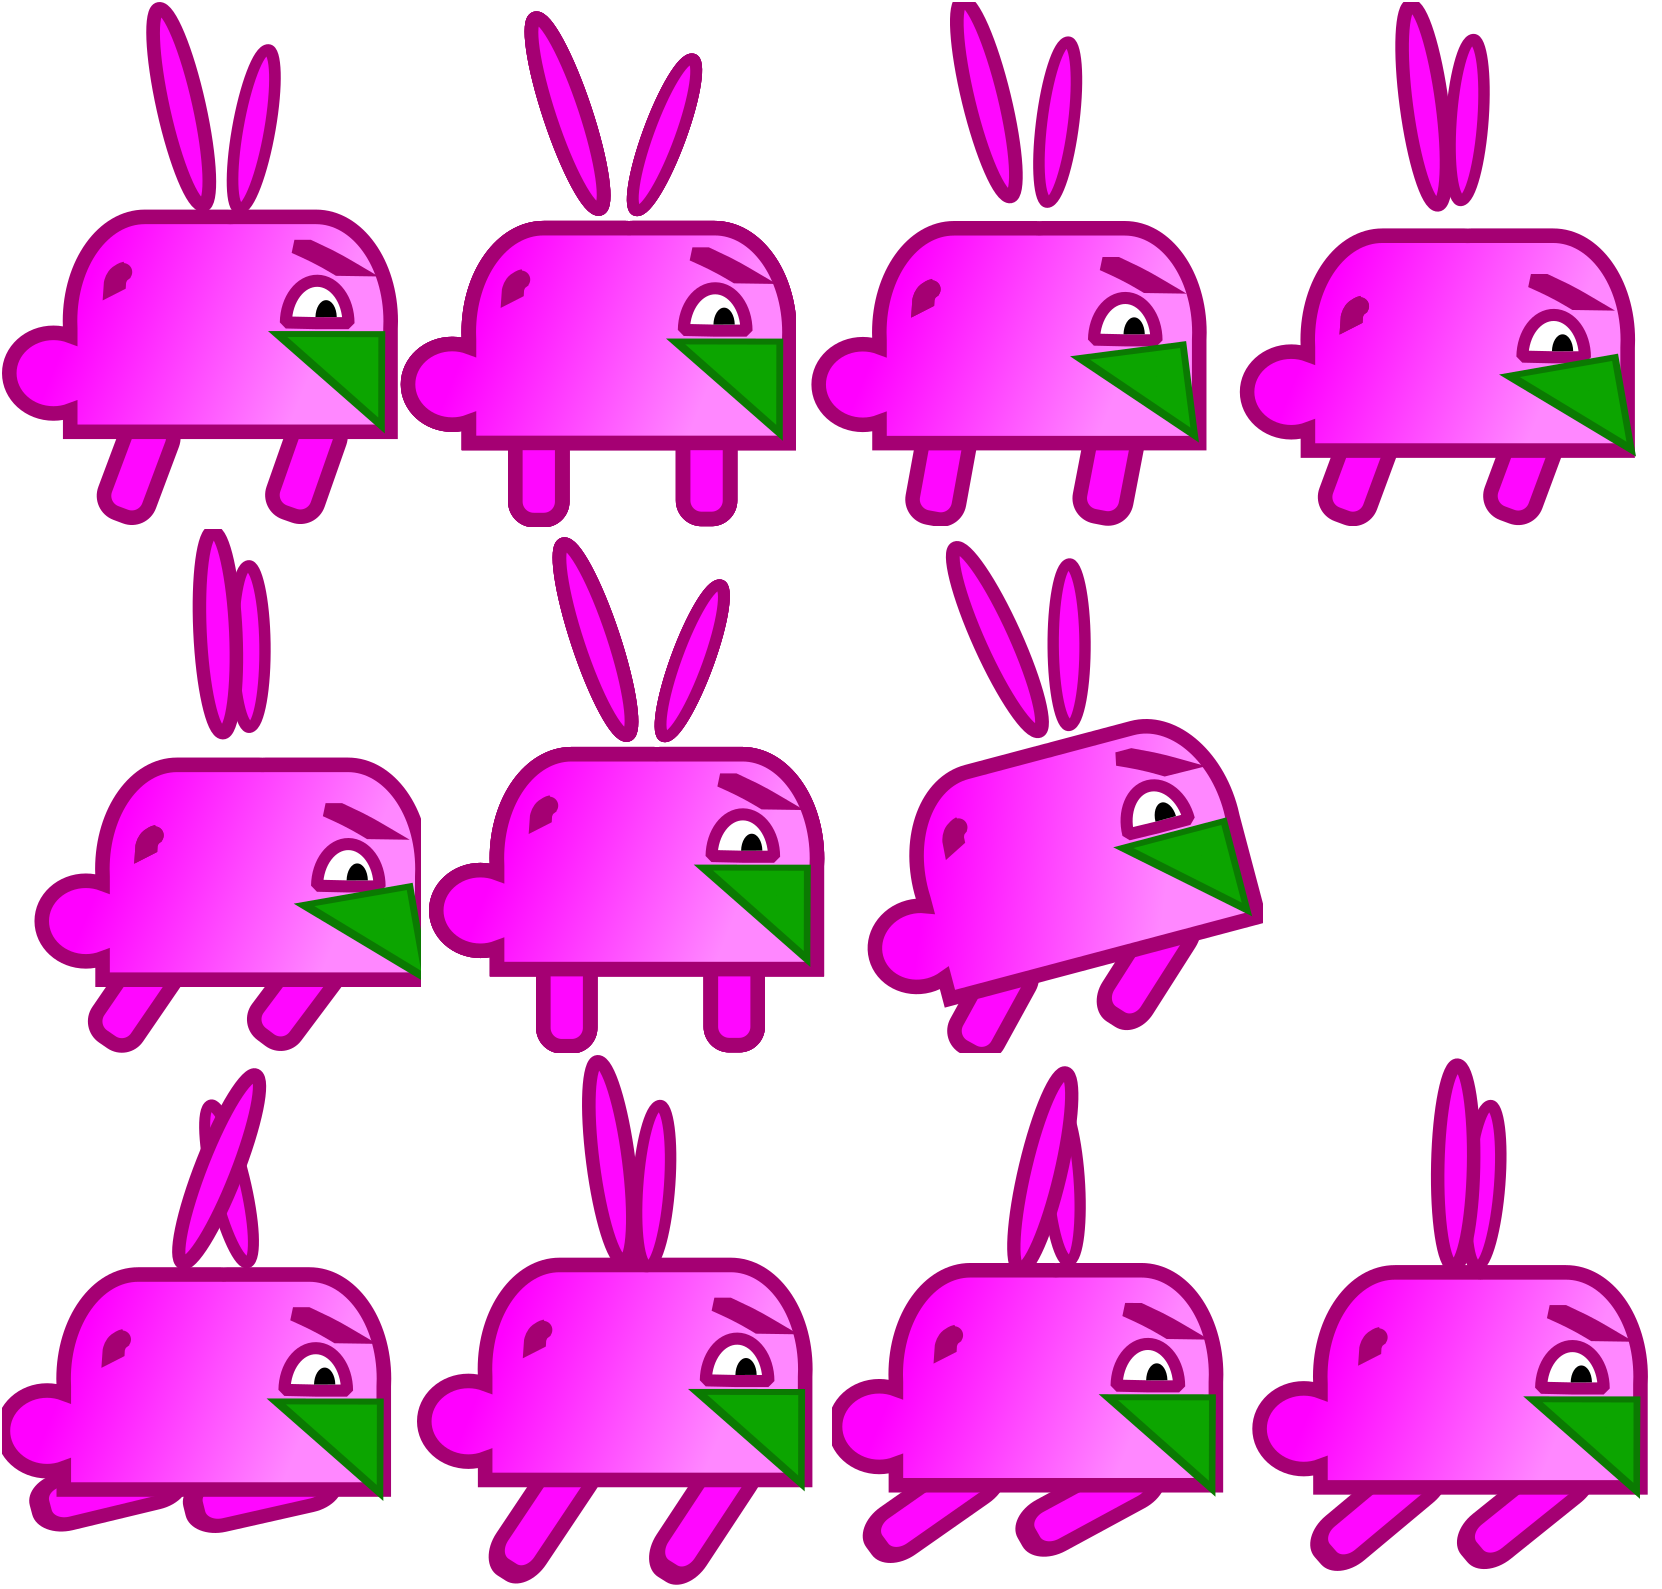
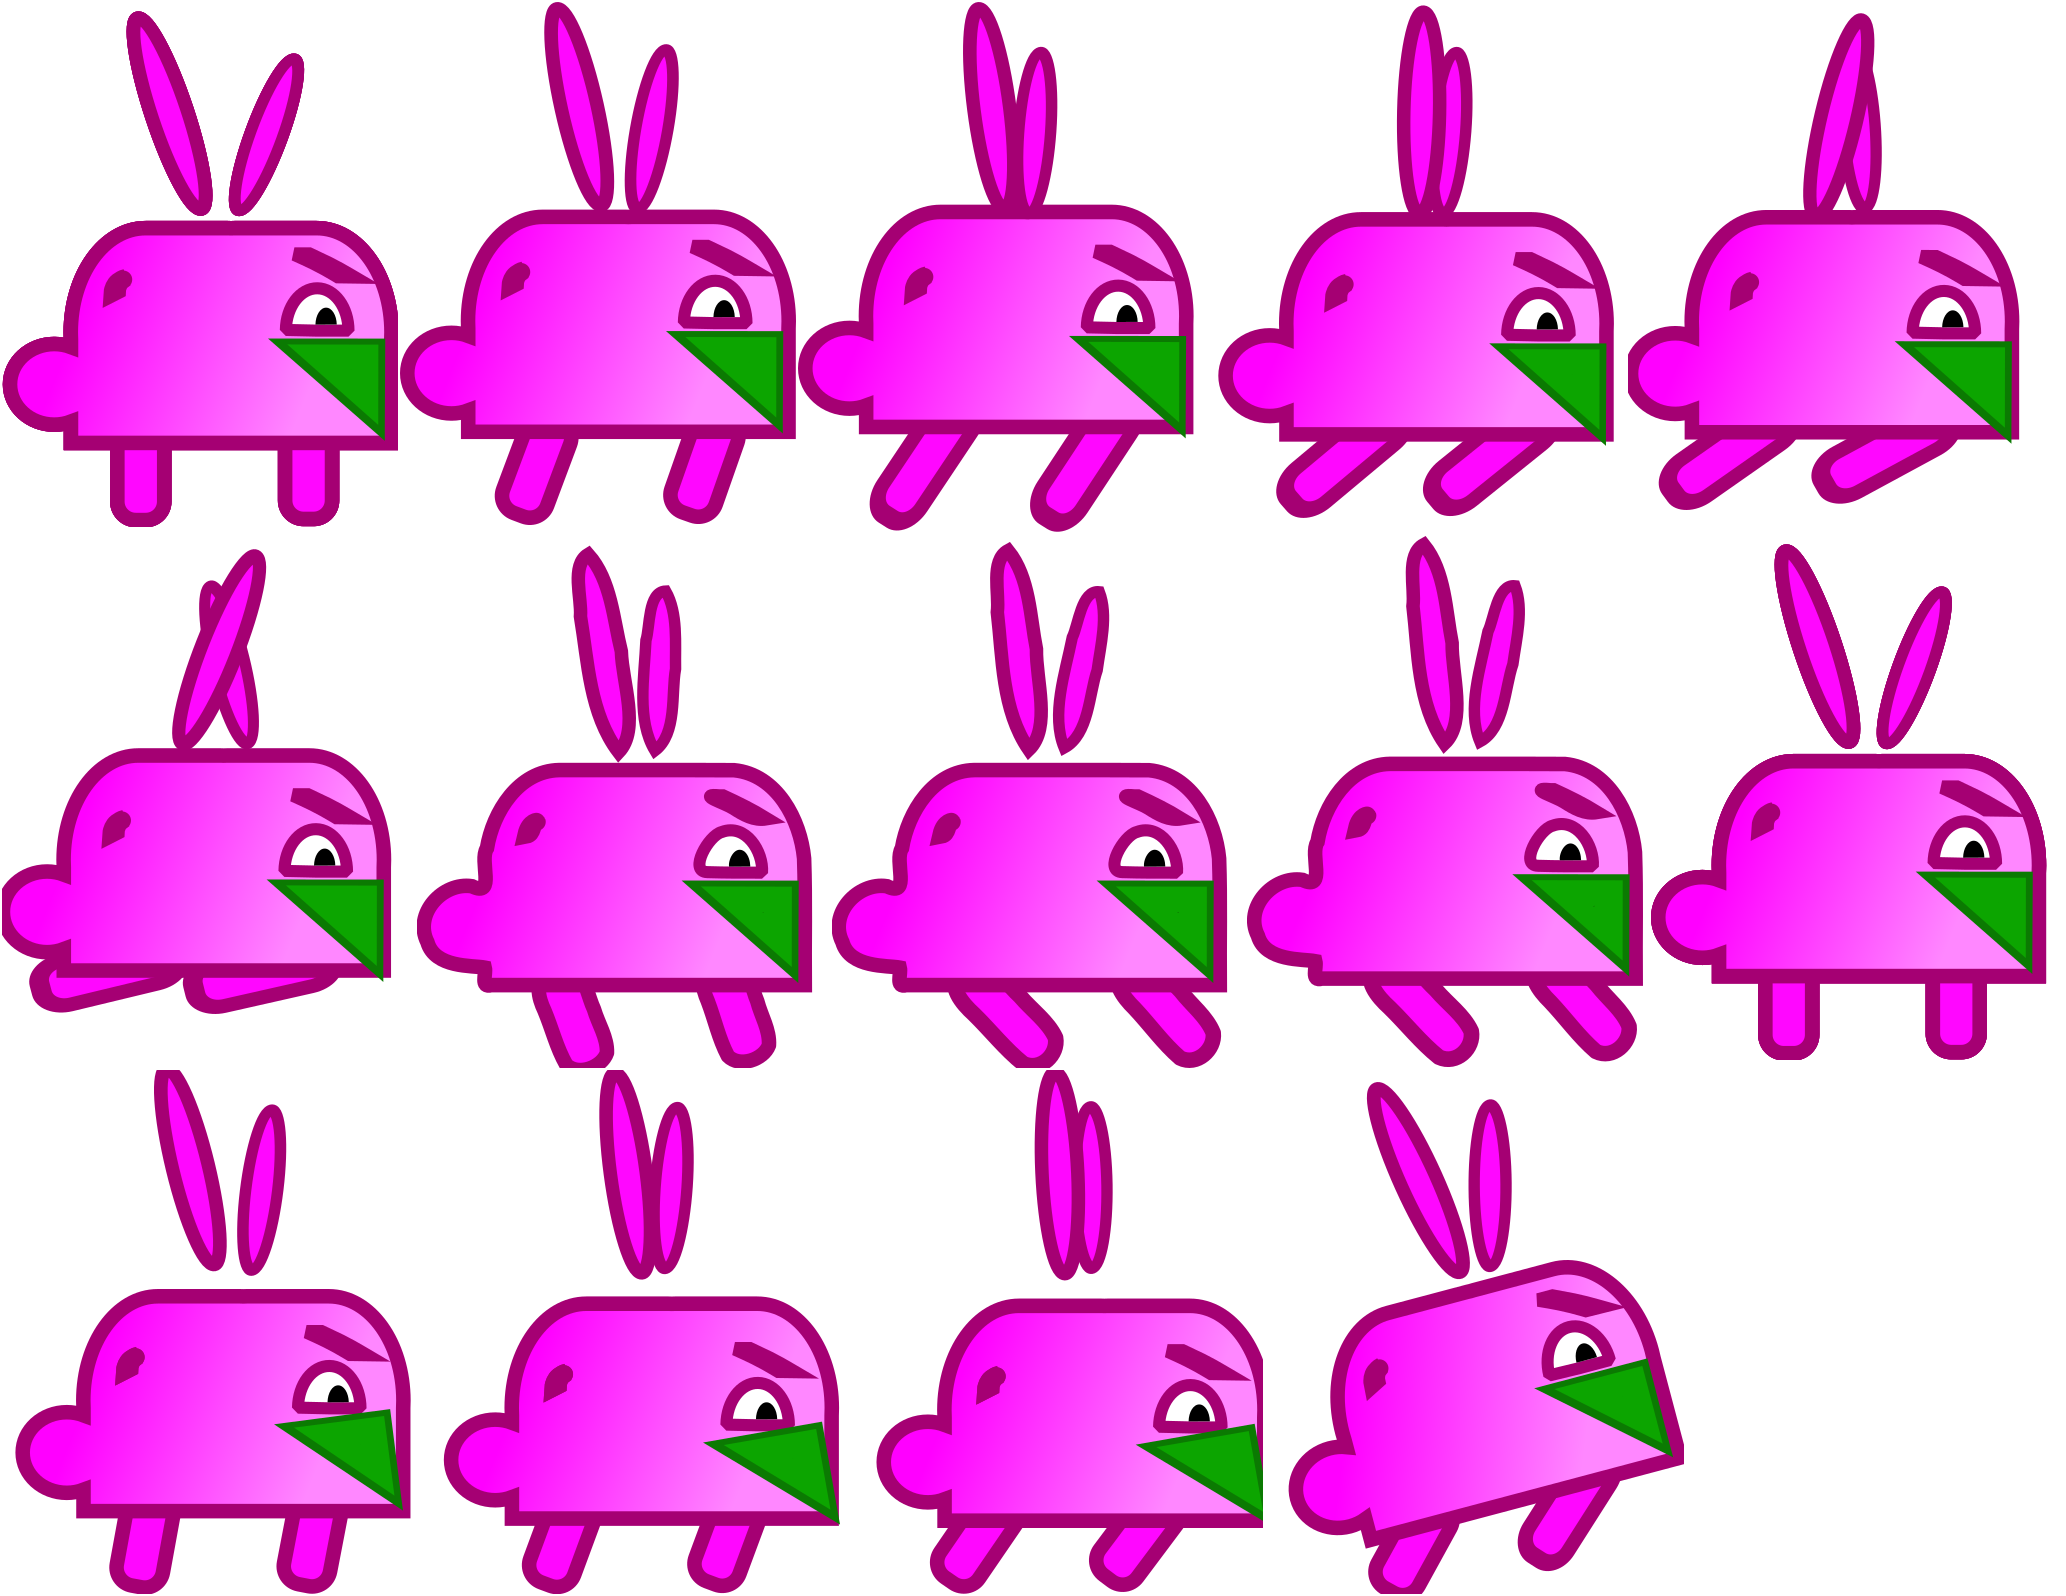
-New FUcking RABIT 2

diff --git a/core/src/com/ZamanGames/RabbitGame/rhelpers/AssetLoader.java b/core/src/com/ZamanGames/RabbitGame/rhelpers/AssetLoader.java
@@ -80,7 +80,7 @@ public class AssetLoader {
 
         TextureRegion[] runFrames = {rabbitAnimation.findRegion("Frame01"),
                 rabbitAnimation.findRegion("Frame02"), rabbitAnimation.findRegion("Frame03"), rabbitAnimation.findRegion("Frame04"), rabbitAnimation.findRegion("Frame05"),
-                rabbitAnimation.findRegion("Frame06")};
+                rabbitAnimation.findRegion("Frame06"), rabbitAnimation.findRegion("Frame09"), rabbitAnimation.findRegion("Frame08"), rabbitAnimation.findRegion("Frame07")};
 //                spriteSheet.findRegion("Frame04"), spriteSheet.findRegion("Frame05"), spriteSheet.findRegion("Frame06"),
 //                spriteSheet.findRegion("Frame07"), spriteSheet.findRegion("Frame08"), spriteSheet.findRegion("Frame09"),  };
 
@@ -89,10 +89,11 @@ public class AssetLoader {
 
 
         runningAnimation = new Animation(.05f, runFrames);
-        runningAnimation.setPlayMode(Animation.PlayMode.LOOP_PINGPONG);
+        runningAnimation.setPlayMode(Animation.PlayMode.LOOP);
 
         idleAnimation = new Animation(.05f, idleFrames);
         idleAnimation.setPlayMode(Animation.PlayMode.LOOP_PINGPONG);
+
 
         hillTop.flip(false, true);
         hillBottom.flip(false, true);
